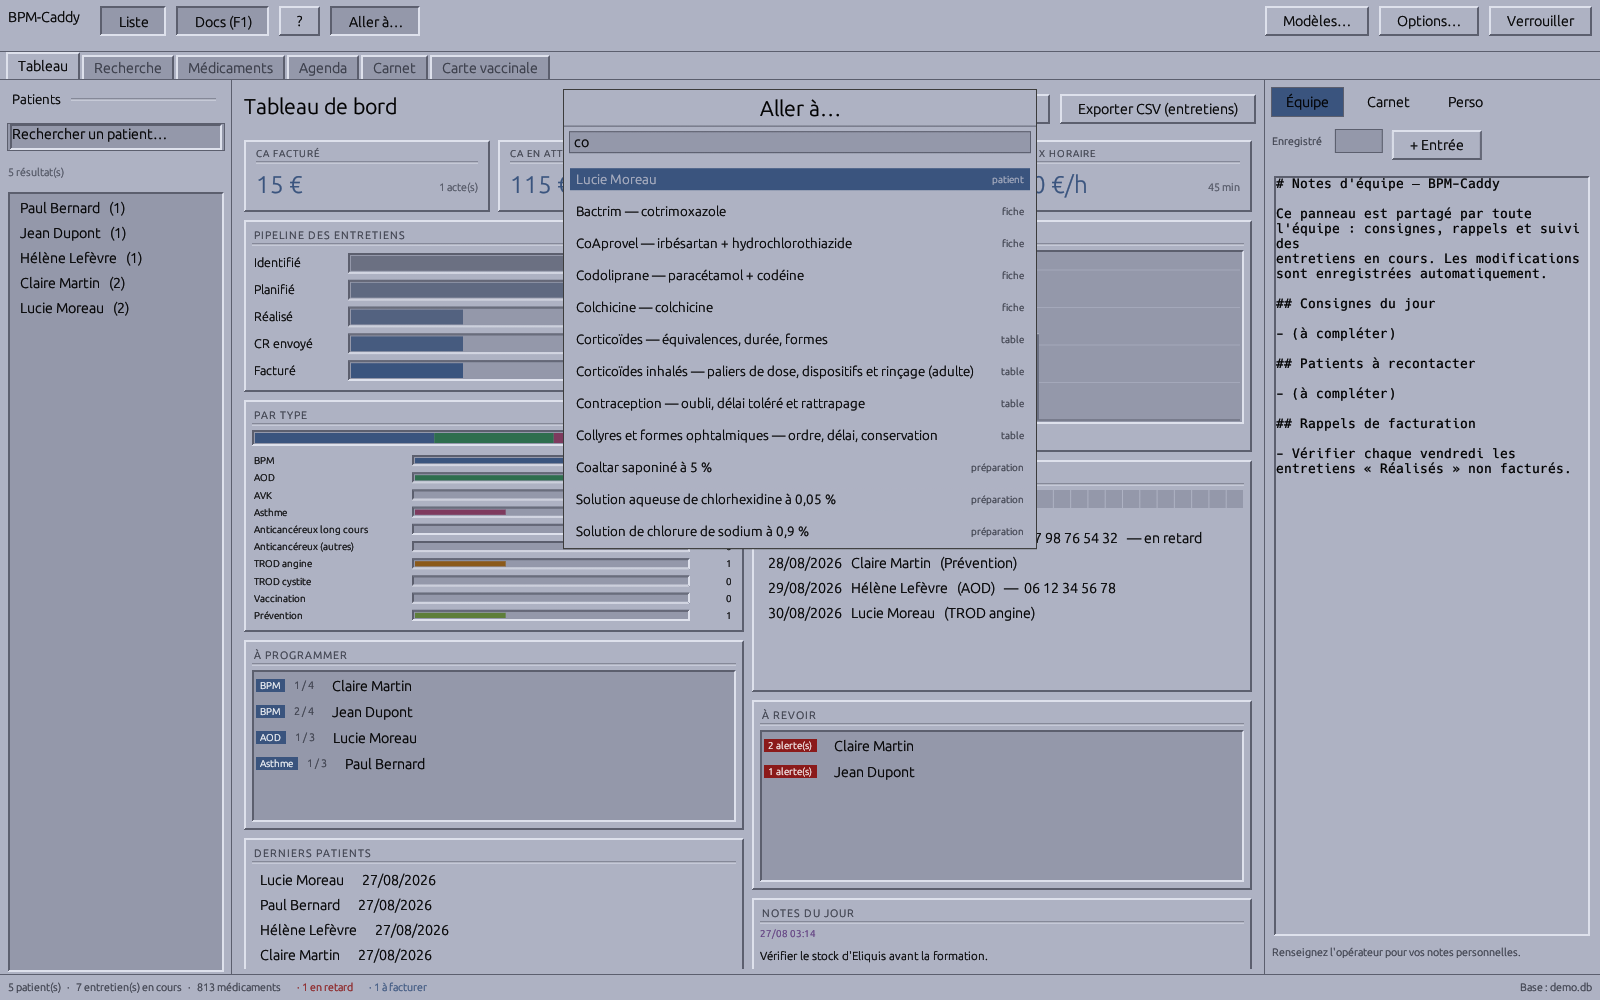
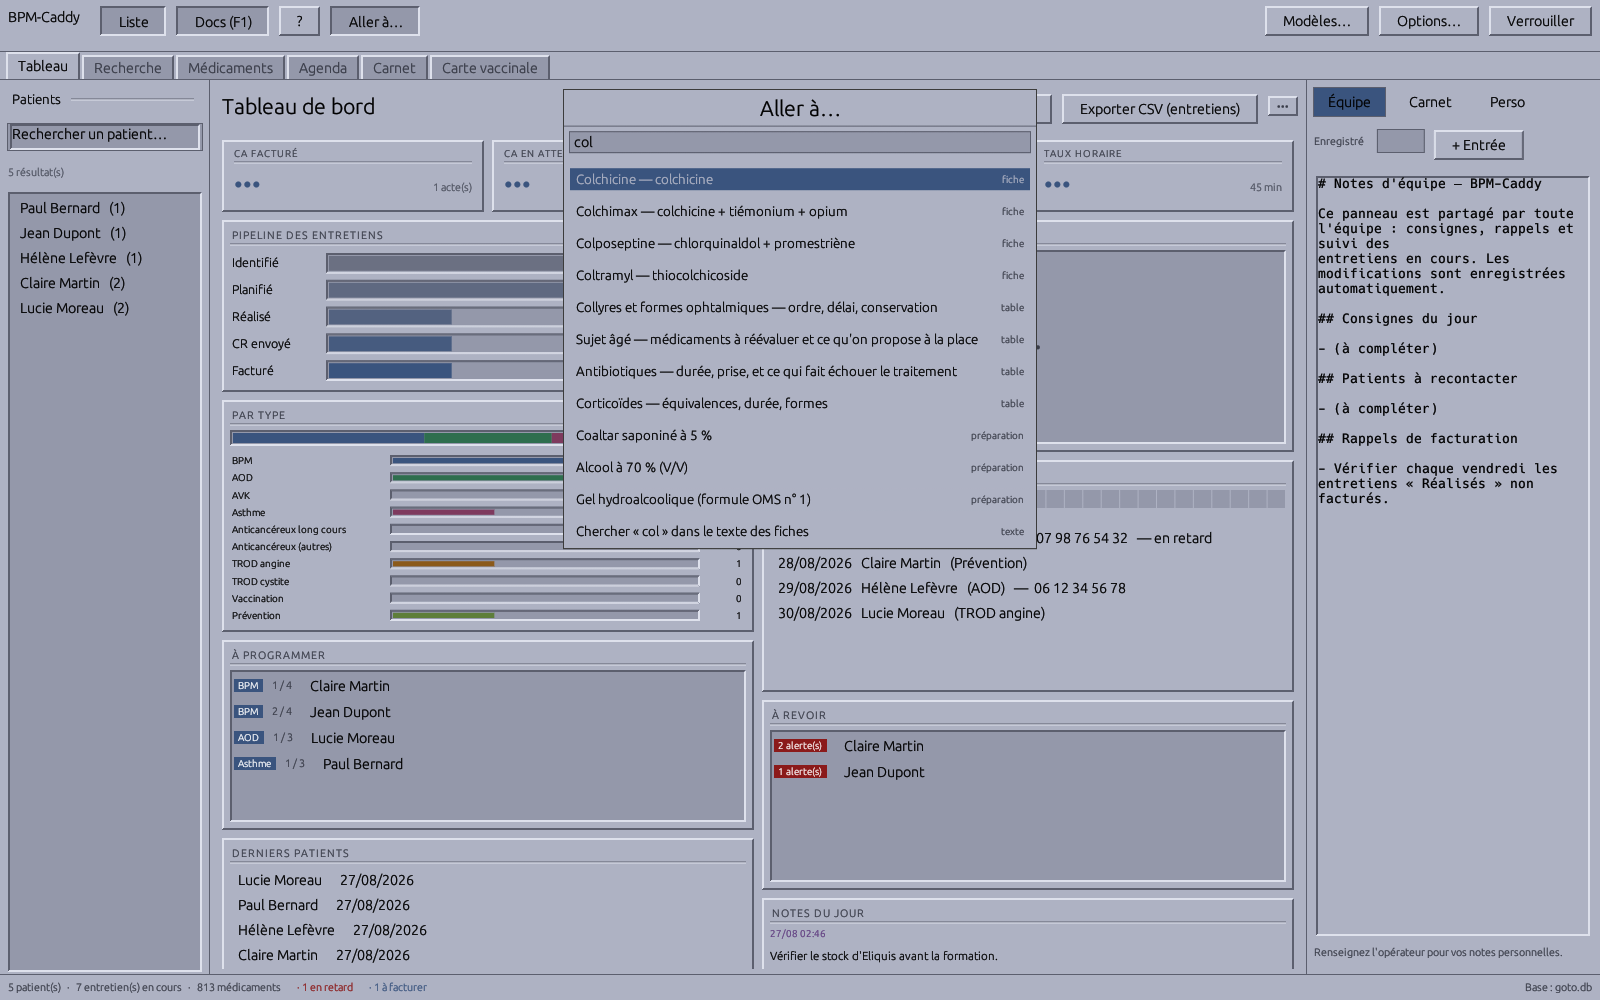
Release 0.76.0: the box's last row goes looking inside the fiches

diff --git a/src/app.rs b/src/app.rs
@@ -1031,6 +1031,10 @@ enum Goto {
     Table(usize),
     Preparation(i64),
     Protocol(i64),
+    /// Not a destination but a question: search this word in the prose
+    /// of every fiche. Always the last row, so a name search that found
+    /// nothing has somewhere to go.
+    Text(String),
 }
 
 /// One line of the jump box: where it goes, what it reads, and which
@@ -1839,7 +1843,13 @@ impl Session {
                 );
             }
         }
-        goto_rank(out, limit)
+        // The last row is the way out of a name search: what the box
+        // could not match by name may still be written inside a fiche.
+        // It costs one row and it is the answer often enough — « QT »,
+        // « allaitement », « pamplemousse » are not names of anything.
+        let mut hits = goto_rank(out, limit.saturating_sub(1));
+        hits.extend(goto_text_row(q));
+        hits
     }
 
     /// Go where a jump-box result points, loading whatever that
@@ -1873,6 +1883,12 @@ impl Session {
                 self.codex_edit = None;
                 self.codex_base = None;
                 self.codex_target.clear();
+            }
+            Goto::Text(word) => {
+                self.enter_drug_panel();
+                self.show_mono = true;
+                self.mono_query = word;
+                self.mono_hits = mono_search(&self.drugs, &self.mono_query, 200);
             }
             Goto::Protocol(id) => {
                 self.enter_drug_panel();
@@ -3061,6 +3077,22 @@ fn treatment_change_shortfall(
 /// How many results one kind may take before the others get a turn.
 const GOTO_PER_KIND: usize = 4;
 
+/// The jump box's last row: search `q` in the prose of every fiche.
+///
+/// It is the way out of a name search. « QT », « allaitement »,
+/// « pamplemousse » are not the name of anything and match nothing in
+/// the box — but they are written inside the monographs, and that is
+/// where the counter's question actually lives. Below three characters
+/// the row is not offered: the prose search would refuse it anyway.
+fn goto_text_row(q: &str) -> Option<GotoHit> {
+    let q = q.trim();
+    (q.chars().count() >= 3).then(|| GotoHit {
+        dest: Goto::Text(q.to_owned()),
+        label: trf("goto_text", q),
+        kind: tr("goto_kind_text"),
+    })
+}
+
 /// Rank the jump box's candidates, best first, capped at `limit`.
 ///
 /// Sorted on the score alone, and stably: two things that read as well
@@ -3572,7 +3604,10 @@ impl App {
                             session.refresh_dashboard();
                             session.view = MainView::Dashboard;
                             session.goto_open = true;
-                            session.goto_query = "co".to_owned();
+                            // A query that reaches several kinds at
+                            // once: the screenshot has to show the box
+                            // doing what it is for, not one row.
+                            session.goto_query = "col".to_owned();
                         }
                         // …and the jump itself: type a préparation's
                         // name and land on its sheet, which is the path
@@ -16156,6 +16191,20 @@ mod tests {
         assert_eq!(out[2].dest, Goto::Drug(3));
         // And the cap is a cap: the table falls off.
         assert_eq!(out.len(), 3);
+    }
+
+    #[test]
+    fn the_jump_box_always_offers_the_text_of_the_fiches() {
+        use super::{goto_text_row, Goto};
+        // Two letters: the prose search would refuse them, so the row
+        // is not offered either.
+        assert!(goto_text_row("qt").is_none());
+        assert!(goto_text_row("  ").is_none());
+        // Three and up: the row carries the word, trimmed, and the
+        // label shows it back.
+        let row = goto_text_row("  pamplemousse ").expect("la ligne manque");
+        assert_eq!(row.dest, Goto::Text("pamplemousse".to_owned()));
+        assert!(row.label.contains("pamplemousse"));
     }
 
     #[test]

diff --git a/README.md b/README.md
@@ -31,7 +31,7 @@ BPM-Caddy is a desktop application that streamlines pharmaceutical consultations
 ## Key features
 
 - **A full-text search of the monographs** — the name search answers « where is Eliquis » ; « Dans le texte… » answers the other half of the counter's questions. Type a word and every fiche that says it comes back with the sentence that says it, under the name of the section it came from: 116 passages say *pamplemousse*, and each one is one click from its card. Interactions, contre-indications, effets indésirables, surveillance, « en cas d'oubli », the formes et dosages and the team's own notes are all searched, accent- and case-insensitively, and the sentence is quoted exactly as the card has it.
-- **One box over everything (`Ctrl+K`)** — « Aller à… » searches the whole base at once and goes there: a patient, a fiche and its DCI, a reference table, a préparation of the codex, a substitution protocol, or one of the standing views. The arrows walk the list, `Entrée` opens, `Échap` leaves the view exactly where it was. Each kind takes at most four of the twelve rows before the others get a turn — with eight hundred fiches in the base, a plain ranking would be eight hundred fiches — and the rest of the box fills from what is left over, so a query that only matches fiches still fills it.
+- **One box over everything (`Ctrl+K`)** — « Aller à… » searches the whole base at once and goes there: a patient, a fiche and its DCI, a reference table, a préparation of the codex, a substitution protocol, or one of the standing views. The arrows walk the list, `Entrée` opens, `Échap` leaves the view exactly where it was. Its last row is always « chercher ce mot dans le texte des fiches » — what no name matches is often written inside a monograph, and three letters are enough to go and look. Each kind takes at most four of the twelve rows before the others get a turn — with eight hundred fiches in the base, a plain ranking would be eight hundred fiches — and the rest of the box fills from what is left over, so a query that only matches fiches still fills it.
 - **A dockable workspace** — the screen is a notebook between three docks, not one view at a time. Open patients and drug cards become tabs (`Ctrl+Tab` cycles, `Ctrl+W` closes), so two records stay one click apart; a left navigator (`F6`) holds the list the active view is browsing — patients, the drug index, the month — and a right pane (`F1`) holds the team's notes. Both docks resize, remember their state, and take a share of the window rather than a fixed slab. Every view is a grid of Motif panels that reflows with the window instead of a fixed column centred in it.
 - **Instant fuzzy search** — the app launches straight into a global search bar; typing `jndp` finds *Jean Dupont*. No result? The search seamlessly becomes a patient-creation form.
 - **Keyboard-driven workflow** — `Ctrl+F` search, `Enter` select, `Ctrl+N` new interview. Zero loading screens.

diff --git a/CHANGELOG.md b/CHANGELOG.md
@@ -5,6 +5,16 @@ All notable changes to BPM-Caddy will be documented in this file.
 The format is based on [Keep a Changelog](https://keepachangelog.com/en/1.1.0/),
 and this project adheres to [Semantic Versioning](https://semver.org/spec/v2.0.0.html).
 
+## [0.76.0] - 2026-08-27
+
+### Added
+- **« Aller à… » ouvre sur le texte des fiches.** Sa dernière ligne est
+  toujours « Chercher « … » dans le texte des fiches » : ce que la
+  recherche par nom n'a pas trouvé est souvent écrit *dans* une
+  monographie. « QT », « allaitement », « pamplemousse » ne sont le nom
+  de rien — trois lettres suffisent, Entrée mène à la recherche plein
+  texte et à ses phrases. Les deux recherches ne font plus qu'un geste.
+
 ## [0.75.0] - 2026-08-27
 
 ### Added
